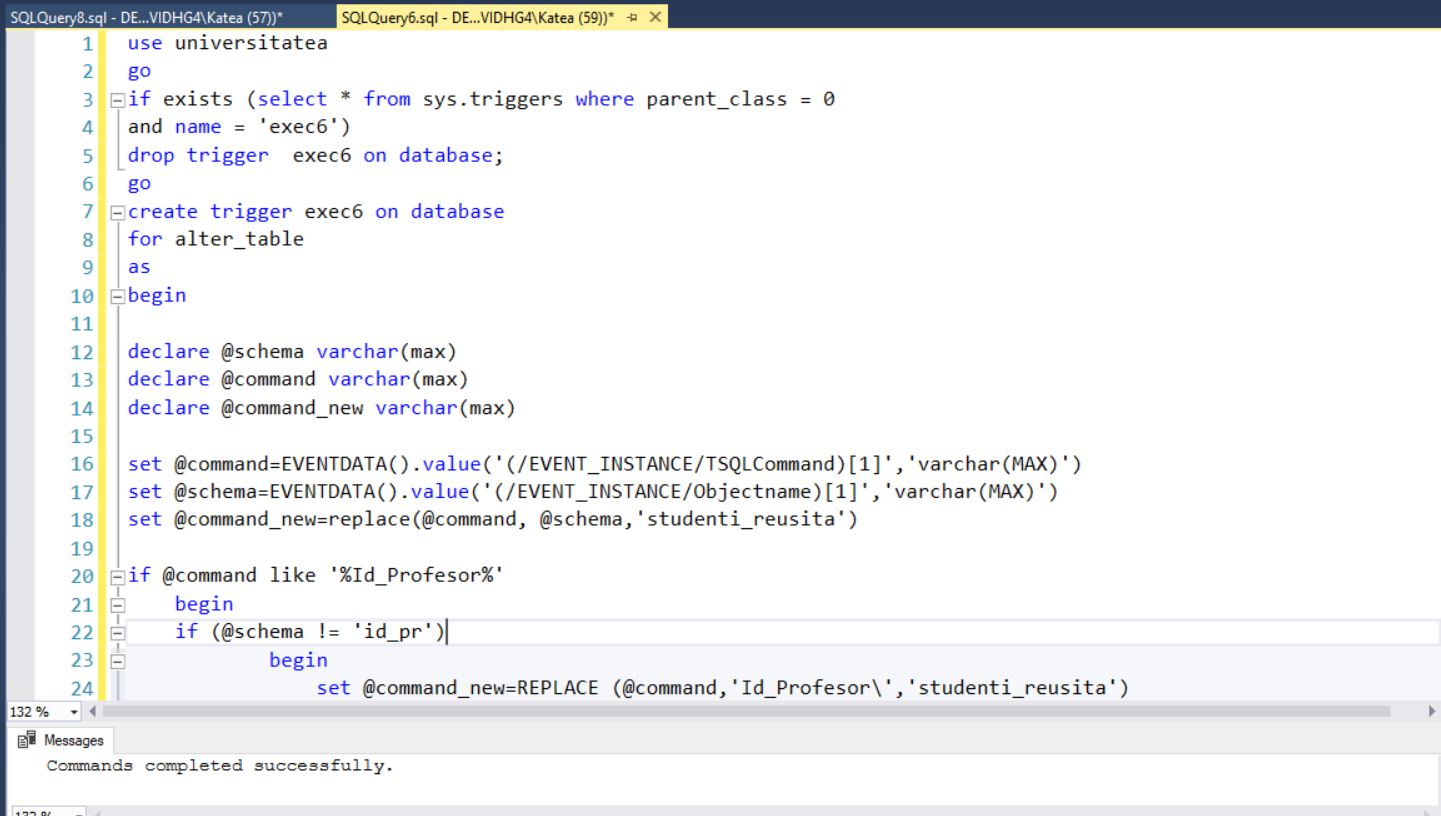
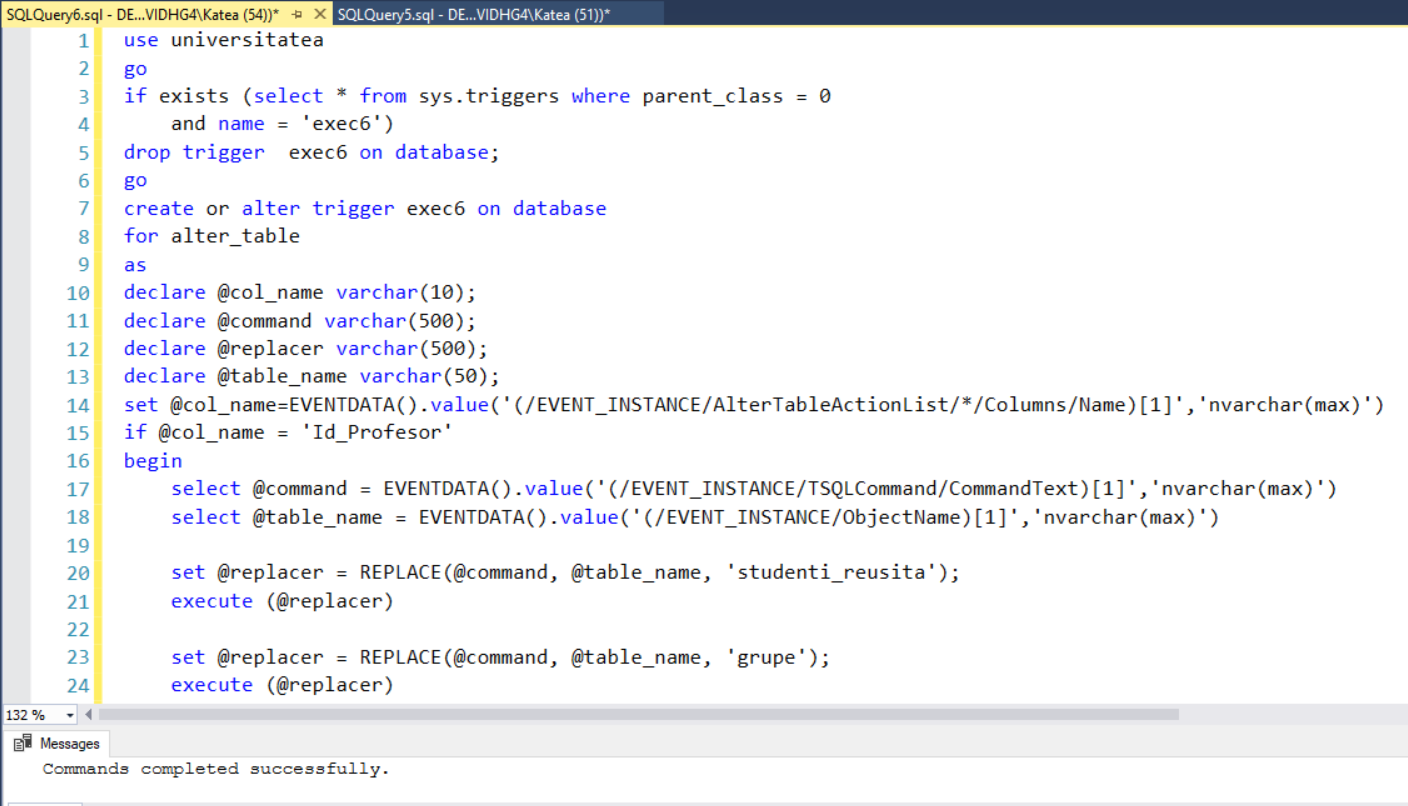
Laboratory-work-10

Changed region(s): [[0.0, 0.0, 1.0, 1.0], [0.5312, 0.6824, 0.6562, 0.7444]]

diff --git a/Laboratory-work-10/README.md b/Laboratory-work-10/README.md
@@ -270,76 +270,7 @@ where Id_Student = 101 and Tip_Evaluare='Examen' and Id_Disciplina=105
 ```
 
 
-```sql
-use universitatea
-go
-drop trigger if exists declansator3
-go
---Declansator ar interzice micsorarea notelor in tabelul studenti_reusita
-CREATE TRIGGER declansator3 ON studenti_reusita 
-AFTER INSERT, update, delete
-AS
-declare @nota int
---declare @data date
-			select @nota = count(Nota) from studenti_reusita
-			where Nota = 9 and Data_Evaluare = '2018-01-25'
-			if @nota < 9			
-				BEGIN 
-					RAISERROR  ('Atentie, micsorarea notelor este interzisa!',16,10);
-					ROLLBACK
-					END
-				--else
-				--begin
-					--if @data<>'2018-01-25'
-					--RAISERROR  ('Atentie, modificarea valorilor campului Data_Evaluare este interzisa!',16,10);
-					--ROLLBACK
-					--END
-go
-update studenti_reusita
-set Nota = 6
-where Data_Evaluare ='2018-01-25' and Id_Student = 100 and Id_Disciplina = 105
-go 
-select *
-from studenti_reusita
-```
-
-```sql
-use universitatea
-go
-drop trigger if exists declansator3
-go
---Declansator ar interzice micsorarea notelor in tabelul studenti_reusita
-CREATE TRIGGER declansator3 ON studenti_reusita 
-AFTER INSERT, update, delete
-AS
-declare @nota int
-declare @data date
---declare @data date
-			select @nota = count(Nota), @data = Data_Evaluare from studenti_reusita
-			where Nota = 9 and Data_Evaluare = '2018-01-25'
-			if @nota < 9			
-				BEGIN 
-					RAISERROR  ('Atentie, micsorarea notelor este interzisa!',16,10);
-					ROLLBACK
-					END
-				else
-					if @data<>'2018-01-25'
-					begin
-					RAISERROR  ('Atentie, modificarea valorilor campului Data_Evaluare este interzisa!',16,10);
-					ROLLBACK
-					end
-go
-update studenti_reusita
-set Nota = 6
---set Data_Evaluare = '2020-01-25'
-where Tip_Evaluare = 'Examen' and Id_Disciplina = 105 and Id_Student =100
-go 
-select *
-from studenti_reusita
-```
-
-
-
+![Nr3](https://github.com/KatyaFAF172/BD/blob/master/Laboratory-work-10/image/Nr3.png)
 
 
 4. Sa se creeze un declansator DDL care ar interzice modificarea coloanei Id_Disciplina in tabelele bazei de date universitatea cu afisarea mesajului respectiv.
@@ -404,39 +335,39 @@ alter column Cod_Grupa char(7);
 6. Sa se creeze un declansator DDL care, la modificarea proprietatilor coloanei Id_Profesor dintr-un tabel, ar face schimbari asemanatoare in mod automat in restul tabelelor.
 
 
-
 ```sql
 use universitatea
 go
 if exists (select * from sys.triggers where parent_class = 0
-and name = 'exec6')
+    and name = 'exec6')
 drop trigger  exec6 on database;
 go
-create trigger exec6 on database
+create or alter trigger exec6 on database
 for alter_table
 as
+declare @col_name varchar(10);
+declare @command varchar(500);
+declare @replacer varchar(500);
+declare @table_name varchar(50);
+set @col_name=EVENTDATA().value('(/EVENT_INSTANCE/AlterTableActionList/*/Columns/Name)[1]','nvarchar(max)')
+if @col_name = 'Id_Profesor'
 begin
-
-declare @schema varchar(max)
-declare @command varchar(max)
-declare @command_new varchar(max)
-
-set @command=EVENTDATA().value('(/EVENT_INSTANCE/TSQLCommand)[1]','varchar(MAX)')
-set @schema=EVENTDATA().value('(/EVENT_INSTANCE/Objectname)[1]','varchar(MAX)')
-set @command_new=replace(@command, @schema,'studenti_reusita')
-
-if @command like '%Id_Profesor%'
-	begin
-	if (@schema != 'id_pr')
-			begin 
-				set @command_new=REPLACE (@command,'Id_Profesor\','studenti_reusita')
-				execute(@command_new)
-			end
-	end
+    select @command = EVENTDATA().value('(/EVENT_INSTANCE/TSQLCommand/CommandText)[1]','nvarchar(max)')
+    select @table_name = EVENTDATA().value('(/EVENT_INSTANCE/ObjectName)[1]','nvarchar(max)')
+    
+    set @replacer = REPLACE(@command, @table_name, 'studenti_reusita');
+    execute (@replacer)
+            
+    set @replacer = REPLACE(@command, @table_name, 'grupe');
+    execute (@replacer)
+            
+    set @replacer = REPLACE(@command, @table_name, 'profesori');
+    execute (@replacer)
+            
+    print 'Types were modified'
 end
-go
-
 ```
+
 
 ![Nr6](https://github.com/KatyaFAF172/BD/blob/master/Laboratory-work-10/image/Nr6.PNG)
 
